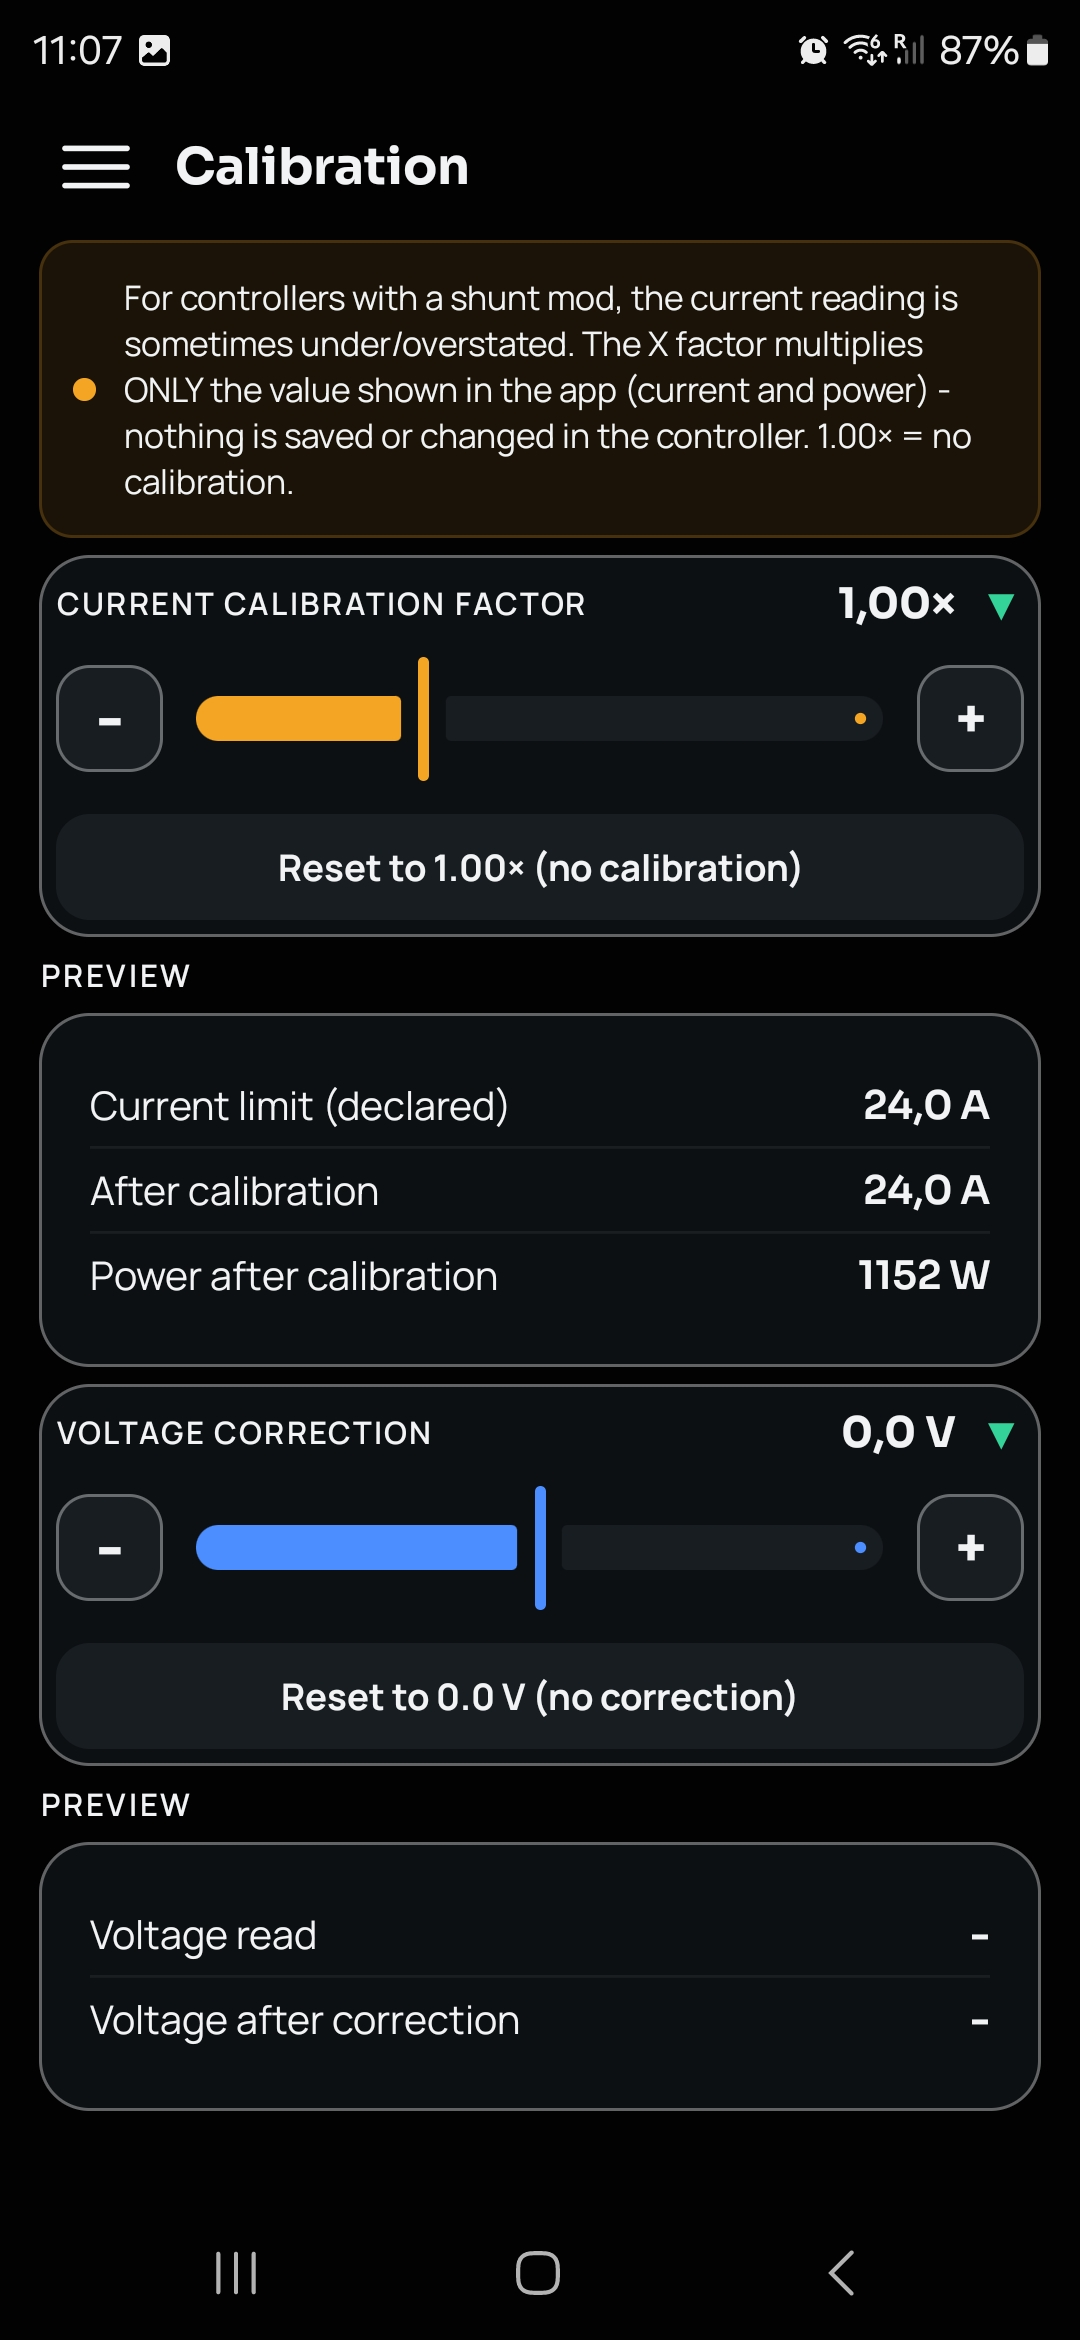
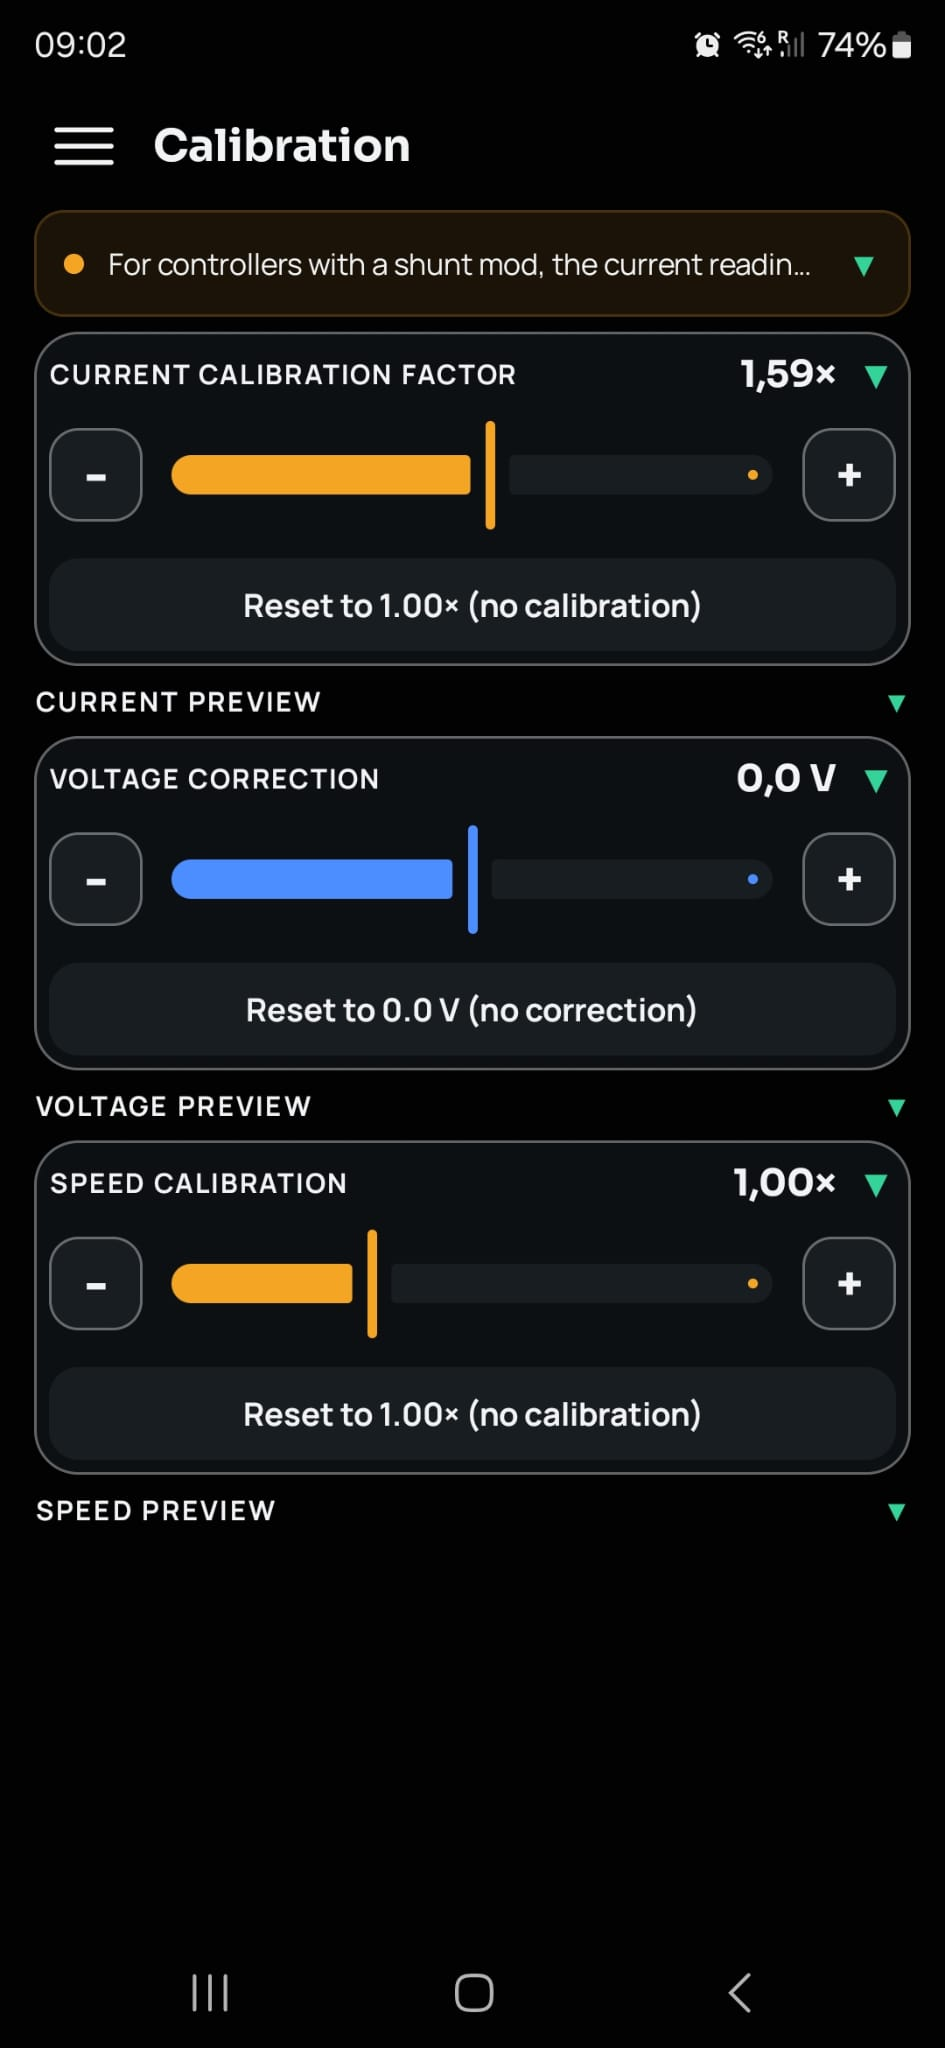
Update EggSPEED calibration and add PROTECT section
New Calibration screenshot shows all three correction factors
(current, voltage, speed), each with its own paragraph. Added a
dedicated PROTECT (Anti-COP) section with a screenshot.

diff --git a/eggspeed/index.html b/eggspeed/index.html
@@ -456,17 +456,30 @@
     </div>
   </section>
 
-  <!-- BATTERY & CALIBRATION HIGHLIGHT -->
+  <!-- BATTERY HIGHLIGHT -->
   <section class="anydevice">
     <div>
-      <div class="eyebrow">Battery &amp; accuracy</div>
+      <div class="eyebrow">Battery &amp; range</div>
       <h2>Range you can actually trust.</h2>
       <p>Tell EggSPEED your cell count and capacity once, and the cockpit's range estimate blends your riding history with your current riding style - the longer the trip, the more it adapts to how you're riding right now.</p>
-      <p>Controller reading current or speed wrong (shunt mod, slightly-off wheel size)? <strong>Calibration</strong> applies an app-side current, voltage, and speed correction factor - nothing is changed on the controller.</p>
     </div>
     <div class="shot-row">
       <img src="img/07_Battery.jpg" alt="Battery screen with cell count and capacity">
-      <img src="img/09_Calibration.jpg" alt="Calibration screen with current and voltage correction">
+    </div>
+  </section>
+
+  <!-- CALIBRATION HIGHLIGHT -->
+  <section class="anydevice">
+    <div>
+      <div class="eyebrow">Calibration</div>
+      <h2>Three dials, exactly where the controller is wrong.</h2>
+      <p><strong>Current Calibration Factor</strong> corrects the current (and power) reading for shunt-modded controllers, where the raw value the controller reports is under- or overstated.</p>
+      <p><strong>Voltage Correction</strong> offsets a controller that reads pack voltage slightly high or low, so SAG, range, and the battery percentage all stay accurate.</p>
+      <p><strong>Speed Calibration</strong> fixes a wheel size that's slightly off, without touching the wheel diameter setting on the controller.</p>
+      <p>All three are app-side only - nothing is ever changed on the controller itself, and each has its own collapsible live preview.</p>
+    </div>
+    <div class="shot-row">
+      <img src="img/09_Calibration.jpg" alt="Calibration screen with current, voltage and speed correction">
     </div>
   </section>
 
@@ -480,6 +493,19 @@
     </div>
     <div class="shot-row">
       <img src="img/20_SAG.jpg" alt="Battery SAG Measurement screen with quality legend and guided procedure">
+    </div>
+  </section>
+
+  <!-- PROTECT (ANTI-COP) HIGHLIGHT -->
+  <section class="anydevice">
+    <div>
+      <div class="eyebrow">Safety</div>
+      <h2>Lock it down without anyone noticing.</h2>
+      <p><strong>PROTECT (Anti-COP)</strong> is a one-tap panic button on the Cockpit: it silently switches the motor to assist level 0, while the screen keeps behaving normally and still pretends you can change the assist level.</p>
+      <p>Unlocking requires opening the dedicated PROTECT tab and pressing the unlock button - optionally behind its own PIN, so the tab itself stays locked until the right code is entered. A SAFE icon on the Cockpit is the only sign the lock is active.</p>
+    </div>
+    <div class="shot-row">
+      <img src="img/21_Protect.jpg" alt="PROTECT screen with Anti-COP feature toggle and PIN lock">
     </div>
   </section>
 
